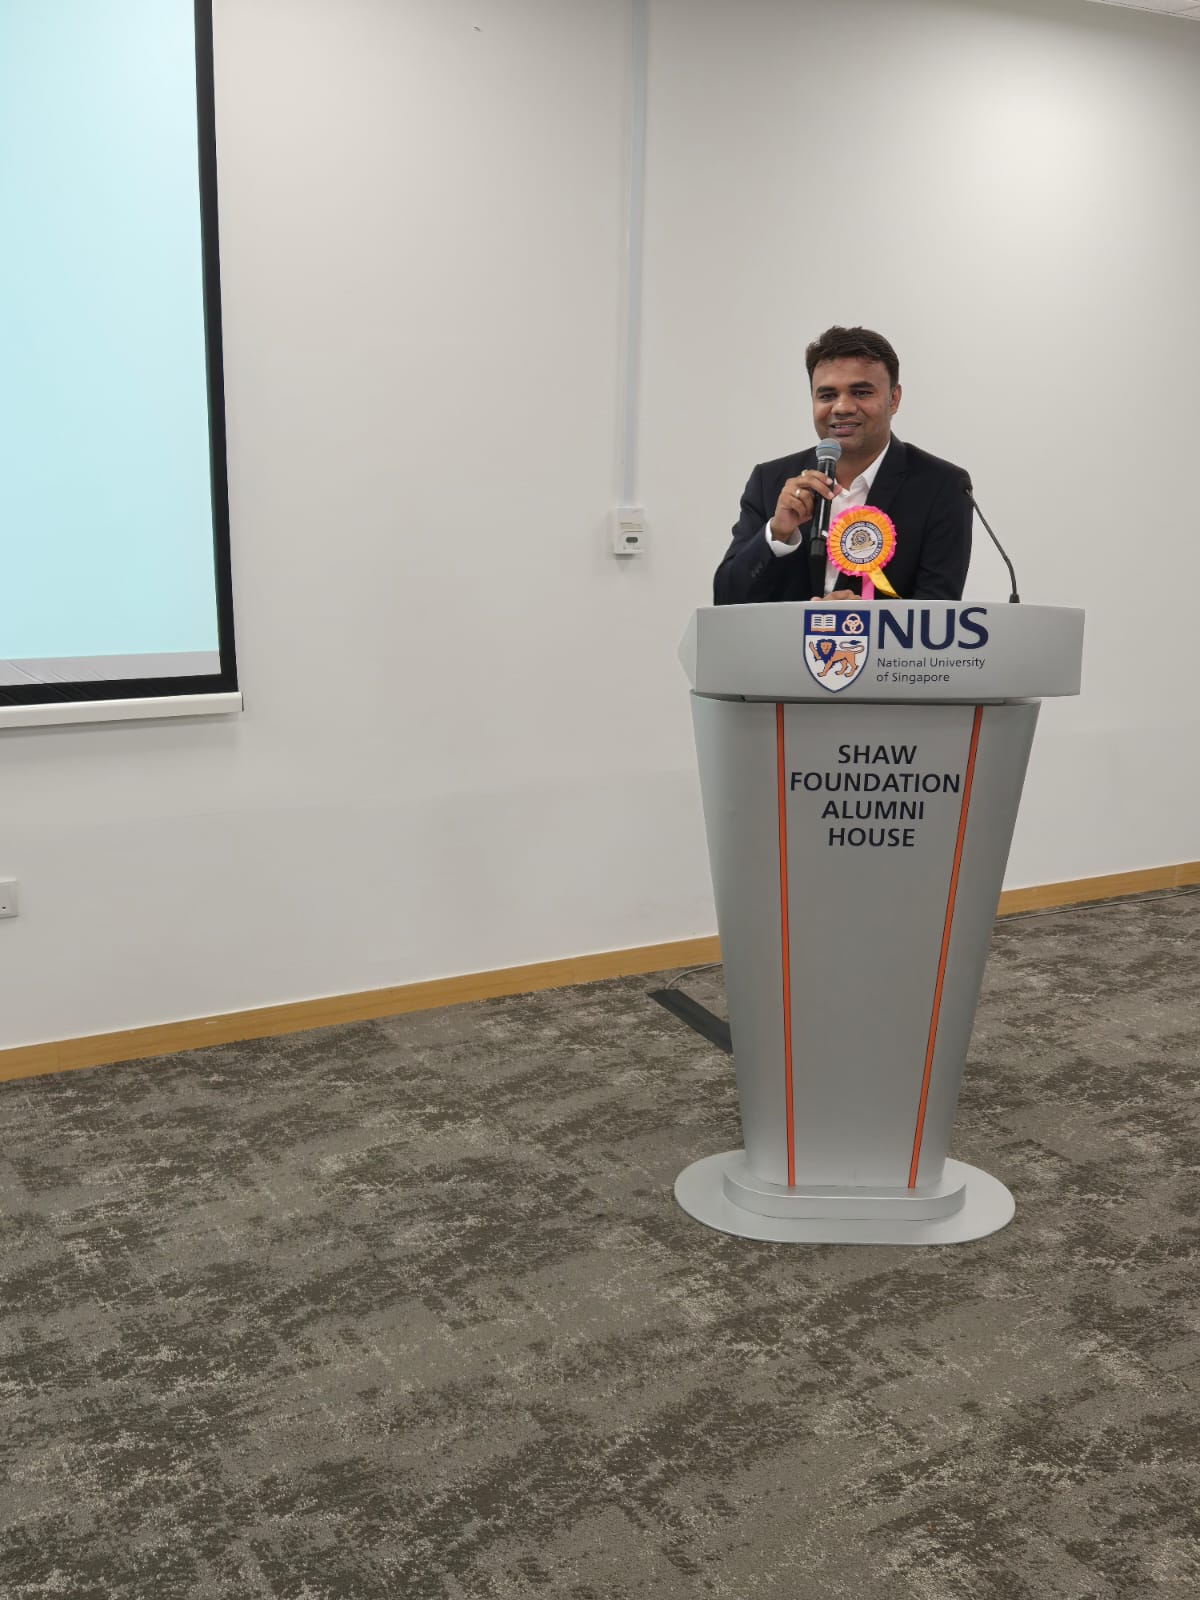
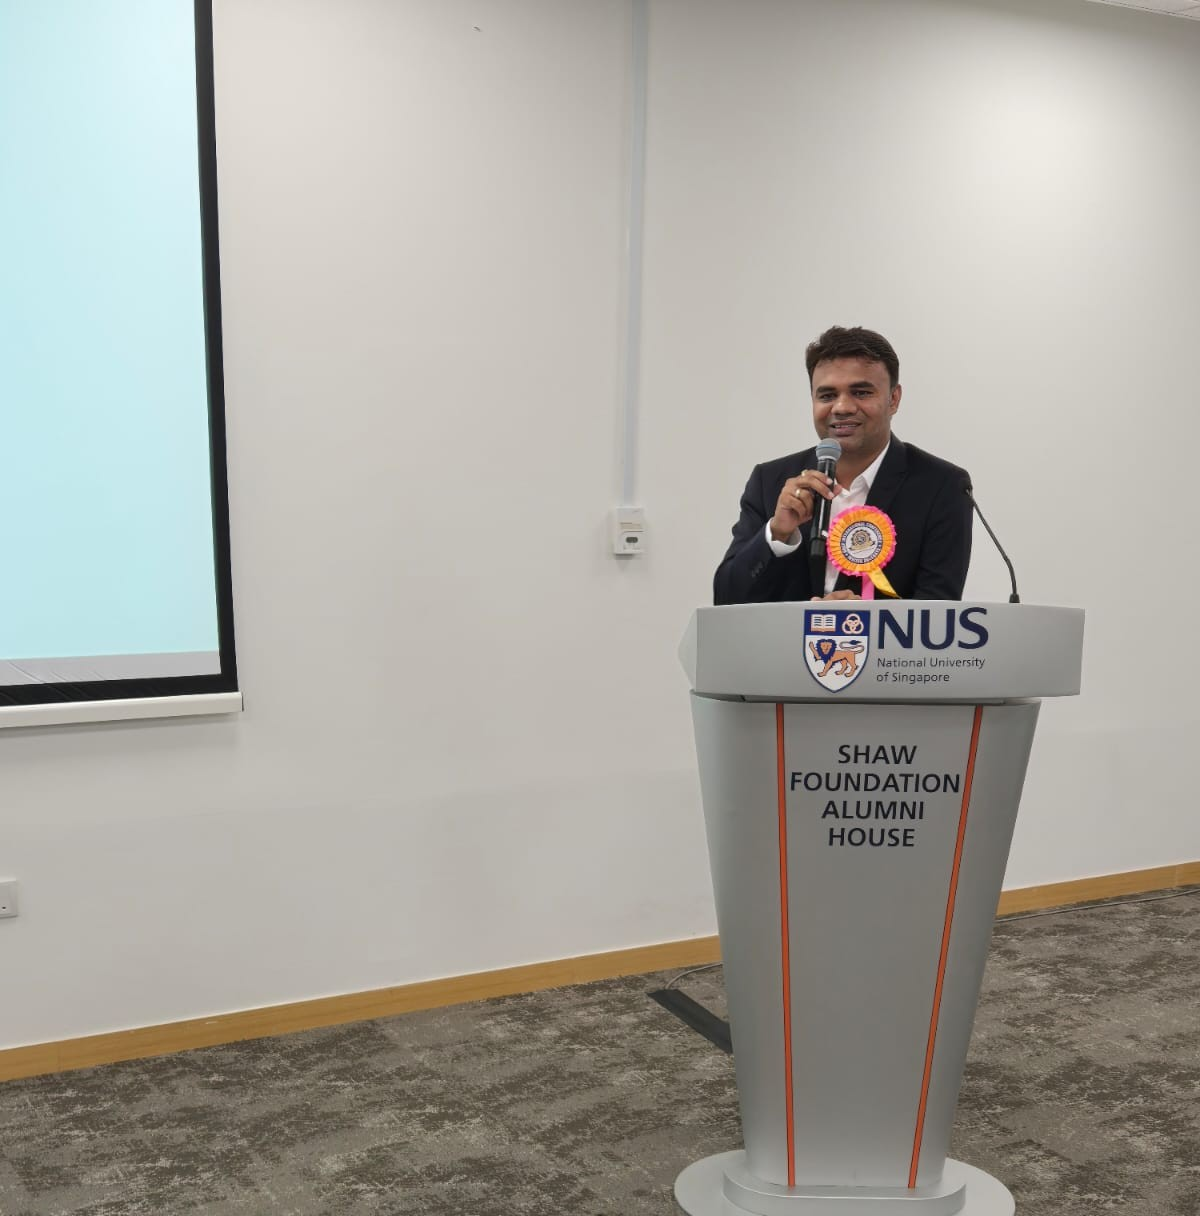
Refactor code structure for improved readability and maintainability

diff --git a/src/pages/Media.jsx b/src/pages/Media.jsx
@@ -7,7 +7,6 @@ import {
   Radio,
   Play,
   Image,
-  ArrowRight,
   ExternalLink,
   ChevronLeft,
   ChevronRight,
@@ -26,6 +25,12 @@ import image8 from "../assets/media8.jpeg";
 import image9 from "../assets/media9.jpeg";
 import image10 from "../assets/media10.jpeg";
 import image11 from "../assets/media11.jpeg";
+import image12 from "../assets/media12.jpeg";
+import image13 from "../assets/media13.jpeg";
+import image14 from "../assets/media14.jpeg";
+import image15 from "../assets/media15.jpeg";
+import image16 from "../assets/media16.jpeg";
+
 
 
 
@@ -53,36 +58,36 @@ const tabs = [
   { label: "Gallery", icon: <Image size={14} /> },
 ];
 
-const featured = [
-  {
-    image: image,
-    type: "Interview",
-    date: "May 15, 2024",
-    title: "Interview on AI & the Future of Smart Cities",
-    source: "elets TV",
-  },
-  {
-    image: image2,
-    type: "Podcast",
-    date: "Apr 22, 2024",
-    title: "Podcast: Research, Innovation & Real-World Impact",
-    source: "The Research Matters",
-  },
-  {
-    image: image3,
-    type: "Talk",
-    date: "Mar 10, 2024",
-    title: "Keynote Talk at International Conference on Data Engineering",
-    source: "ICDE 2024",
-  },
-  {
-    image: image4,
-    type: "Feature",
-    date: "Feb 5, 2024",
-    title: "Top 2% Scientist in the World: Elsevier Stanford List 2024",
-    source: "Times of India",
-  },
-];
+// const featured = [
+//   {
+//     image: image,
+//     type: "Interview",
+//     date: "May 15, 2024",
+//     title: "Interview on AI & the Future of Smart Cities",
+//     source: "elets TV",
+//   },
+//   {
+//     image: image2,
+//     type: "Podcast",
+//     date: "Apr 22, 2024",
+//     title: "Podcast: Research, Innovation & Real-World Impact",
+//     source: "The Research Matters",
+//   },
+//   {
+//     image: image3,
+//     type: "Talk",
+//     date: "Mar 10, 2024",
+//     title: "Keynote Talk at International Conference on Data Engineering",
+//     source: "ICDE 2024",
+//   },
+//   {
+//     image: image4,
+//     type: "Feature",
+//     date: "Feb 5, 2024",
+//     title: "Top 2% Scientist in the World: Elsevier Stanford List 2024",
+//     source: "Times of India",
+//   },
+// ];
 
 const latest = [
   {
@@ -142,6 +147,11 @@ const gallery = [
   { image: image9, alt: "Scientific Workshop" },
   { image: image10, alt: "Media Interaction" },
   { image: image11, alt: "Public Lecture" },
+  { image: image12, alt: "Public Lecture" },
+  { image: image13, alt: "Public Lecture" },
+  { image: image14, alt: "Public Lecture" },
+  { image: image15, alt: "Public Lecture" },
+   { image: image16, alt: "Public Lecture" },
 ];
 
 export default function Media() {
@@ -239,55 +249,7 @@ export default function Media() {
       {/* Content */}
       <section className="py-9 sm:py-11 bg-white overflow-hidden">
         <div className="max-w-7xl mx-auto px-4 sm:px-8 lg:px-16 space-y-11 sm:space-y-14">
-          {/* Featured */}
-          {/* <div>
-            <SectionHead title="Featured Media" />
-
-            <div className="grid grid-cols-1 sm:grid-cols-2 lg:grid-cols-4 gap-5">
-              {featured.map((item, i) => (
-                <motion.article
-                  key={item.title}
-                  initial="hidden"
-                  whileInView="visible"
-                  viewport={{ once: true, amount: 0.2 }}
-                  custom={i}
-                  variants={fadeUp}
-                  className="group bg-white border border-[#e8e3dc] rounded-[7px] overflow-hidden shadow-[0_3px_12px_rgba(0,0,0,0.04)] hover:-translate-y-2 hover:border-[#C8922A]/60 hover:shadow-[0_18px_40px_rgba(200,146,42,0.15)] transition-all duration-500"
-                >
-                  <div className="relative h-[160px] overflow-hidden">
-                    <img
-                      src={item.image}
-                      alt={item.title}
-                      className="w-full h-full object-cover transition-transform duration-700 group-hover:scale-110"
-                    />
-                    <span className="absolute left-3 bottom-3 bg-white/90 text-[#8e5b0d] text-[10px] font-semibold px-2 py-[4px] rounded-[3px]">
-                      {item.type}
-                    </span>
-                  </div>
-
-                  <div className="px-4 py-4">
-                    <p className="text-[11px] text-[#8a8f98] mb-2">
-                      {item.date}
-                    </p>
-                    <h4 className="font-serif text-[15px] text-[#1A1A1A] leading-[1.4] min-h-[62px] group-hover:text-[#C8922A] transition-colors duration-300">
-                      {item.title}
-                    </h4>
-
-                    <div className="flex items-center justify-between mt-4">
-                      <span className="text-[11px] font-semibold text-[#C8922A]">
-                        {item.source}
-                      </span>
-                      <ExternalLink
-                        size={13}
-                        className="text-[#777] group-hover:text-[#C8922A]"
-                      />
-                    </div>
-                  </div>
-                </motion.article>
-              ))}
-            </div>
-          </div> */}
-
+          
           {/* Latest */}
           <div>
             <SectionHead title="Latest Media" />